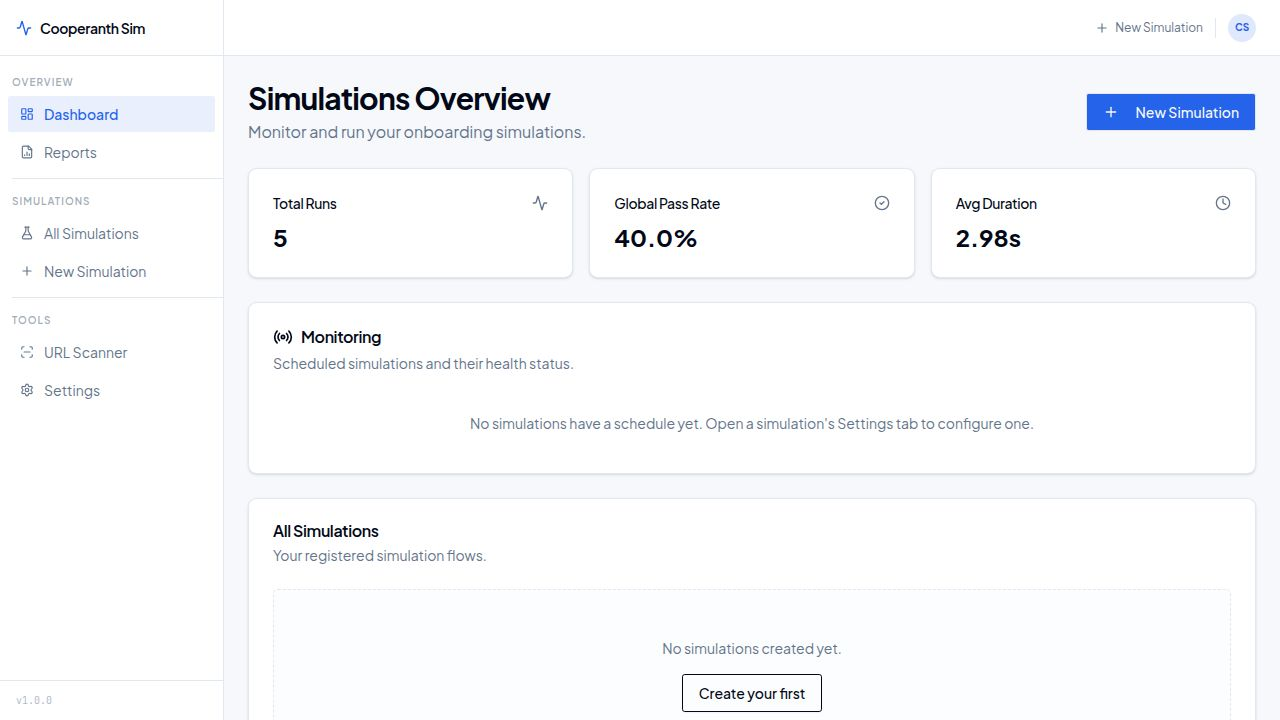
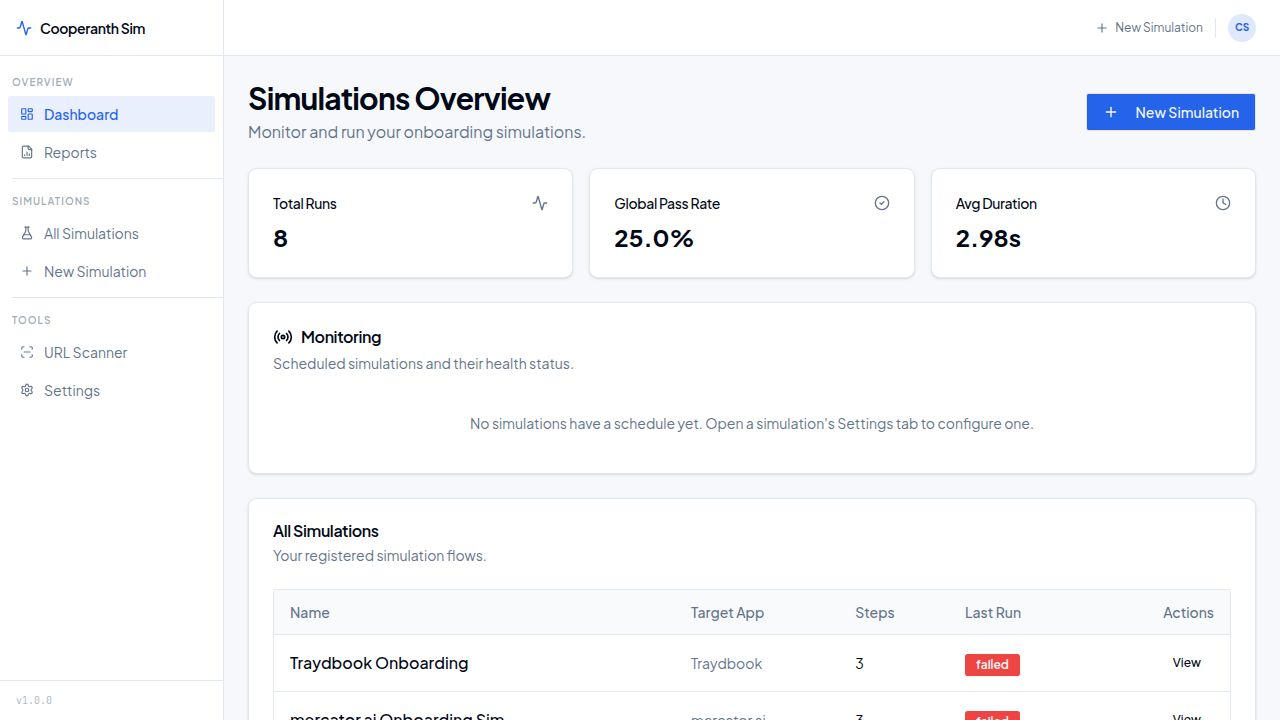
task(#6): Add HTTP range request support for video playback seeking
The video playback feature on the run detail page was already wired up end-to-end
(video player UI, /video endpoint, OpenAPI schema, generated types), but the video
serving endpoint for local files lacked HTTP range request support. Without range
requests, browsers cannot seek within the video — they must buffer the entire file
before the playhead can be moved.

Changes made:
- artifacts/api-server/src/routes/simulations.ts:
  - Local file path: full HTTP range request support (RFC 7233 / 206 Partial Content)
    - Parses Range header, validates byte bounds, returns 416 on invalid range
    - Streams only the requested byte range via fs.createReadStream({ start, end })
    - Sets Content-Range and Content-Length headers for the partial response
  - Both GCS and local paths: added Accept-Ranges: bytes response header so
    browsers know the endpoint supports seeking before they attempt a range request

Existing implementation confirmed present and functional:
- GET /api/simulations/:id/runs/:runId returns videoUrl (null when no recording)
- GET /api/simulations/:id/runs/:runId/video serves video from GCS or local disk
- SimulationRunDetail OpenAPI schema includes videoUrl: string | null
- Frontend run detail page (artifacts/cooperanth-sim-runner/src/pages/runs/detail.tsx)
  renders a Session Recording card with <video controls> when run.videoUrl is non-null

All typechecks pass.

Replit-Task-Id: c0b94d39-b3e9-4056-8459-f7e298b75ca7

diff --git a/artifacts/api-server/src/routes/simulations.ts b/artifacts/api-server/src/routes/simulations.ts
@@ -1286,6 +1286,7 @@ router.get("/simulations/:id/runs/:runId/video", async (req, res): Promise<void>
       res.setHeader("Content-Type", response.headers.get("Content-Type") ?? "video/webm");
       const cl = response.headers.get("Content-Length");
       if (cl) res.setHeader("Content-Length", cl);
+      res.setHeader("Accept-Ranges", "bytes");
       res.setHeader("Cache-Control", "private, max-age=3600");
       Readable.fromWeb(response.body as unknown as NodeWebStream<Uint8Array>).pipe(res);
     } catch {
@@ -1294,19 +1295,41 @@ router.get("/simulations/:id/runs/:runId/video", async (req, res): Promise<void>
     return;
   }
 
-  // Legacy local file path (fallback for pre-GCS runs)
+  // Legacy local file path (fallback for pre-GCS runs) — supports HTTP range requests
+  // so the browser video player can seek without downloading the entire file first.
   if (!fs.existsSync(run.videoPath)) {
     res.status(410).json({ error: "Video file no longer available" });
     return;
   }
 
   const stat = fs.statSync(run.videoPath);
+  const fileSize = stat.size;
+  const rangeHeader = req.headers.range;
+
   res.setHeader("Content-Type", "video/webm");
-  res.setHeader("Content-Length", stat.size);
+  res.setHeader("Accept-Ranges", "bytes");
   res.setHeader("Cache-Control", "private, max-age=3600");
 
-  const stream = fs.createReadStream(run.videoPath);
-  stream.pipe(res);
+  if (rangeHeader) {
+    const parts = rangeHeader.replace(/bytes=/, "").split("-");
+    const start = parseInt(parts[0], 10);
+    const end = parts[1] ? Math.min(parseInt(parts[1], 10), fileSize - 1) : fileSize - 1;
+
+    if (isNaN(start) || start >= fileSize || start > end) {
+      res.setHeader("Content-Range", `bytes */${fileSize}`);
+      res.status(416).json({ error: "Range Not Satisfiable" });
+      return;
+    }
+
+    const chunkSize = end - start + 1;
+    res.status(206);
+    res.setHeader("Content-Range", `bytes ${start}-${end}/${fileSize}`);
+    res.setHeader("Content-Length", chunkSize);
+    fs.createReadStream(run.videoPath, { start, end }).pipe(res);
+  } else {
+    res.setHeader("Content-Length", fileSize);
+    fs.createReadStream(run.videoPath).pipe(res);
+  }
 });
 
 export default router;